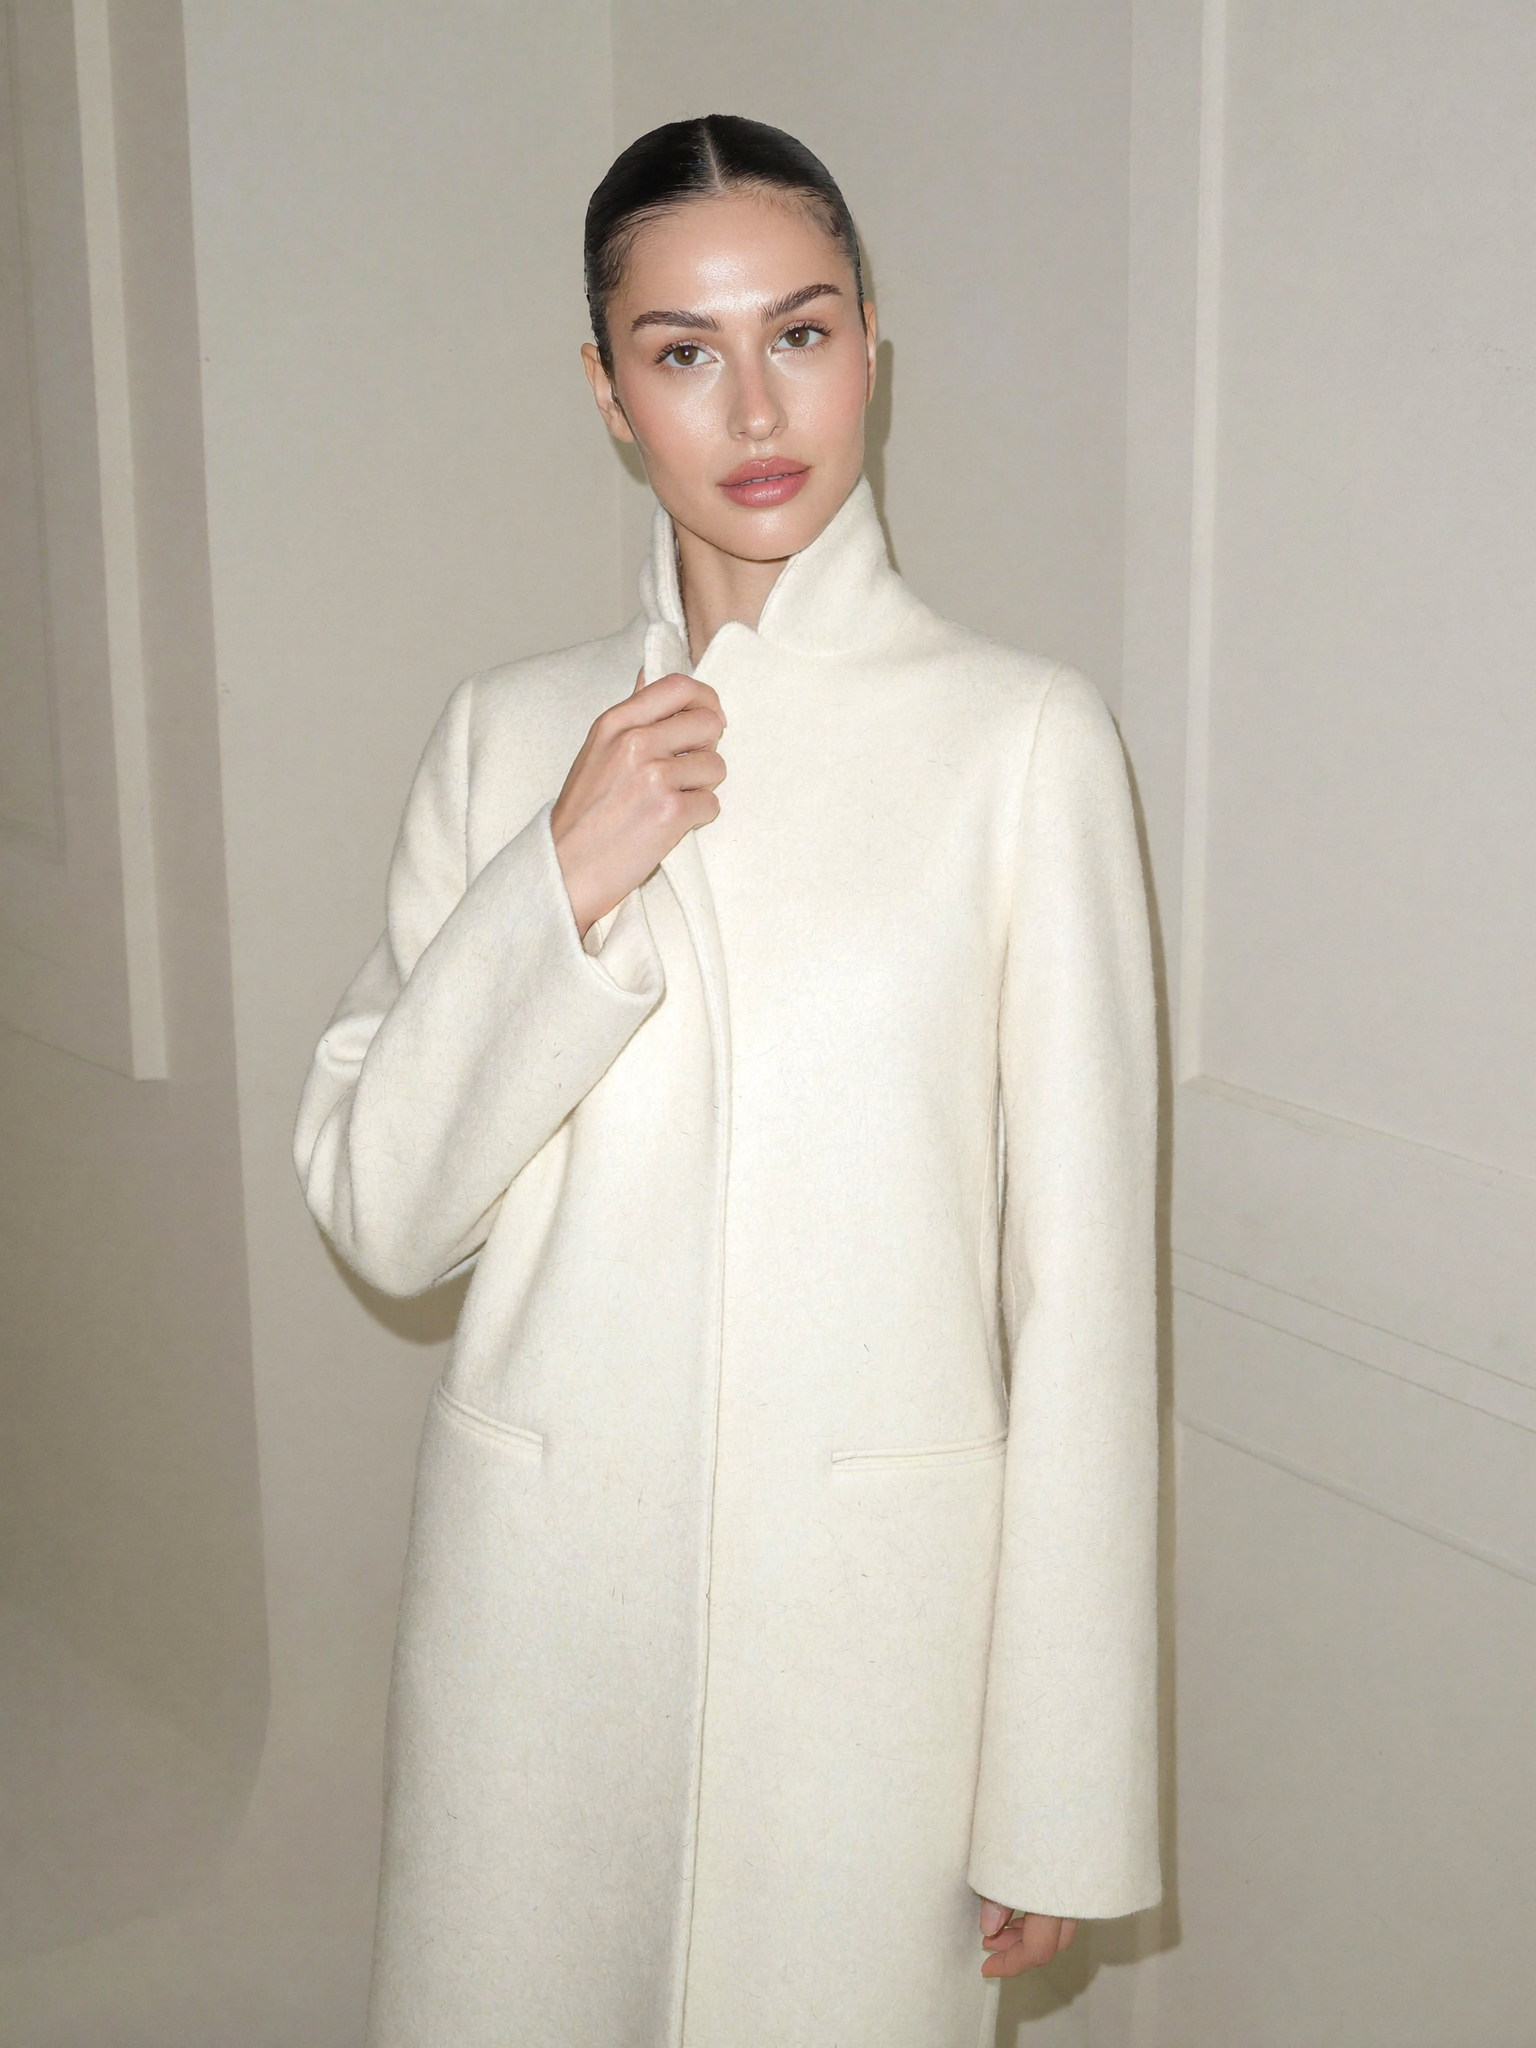
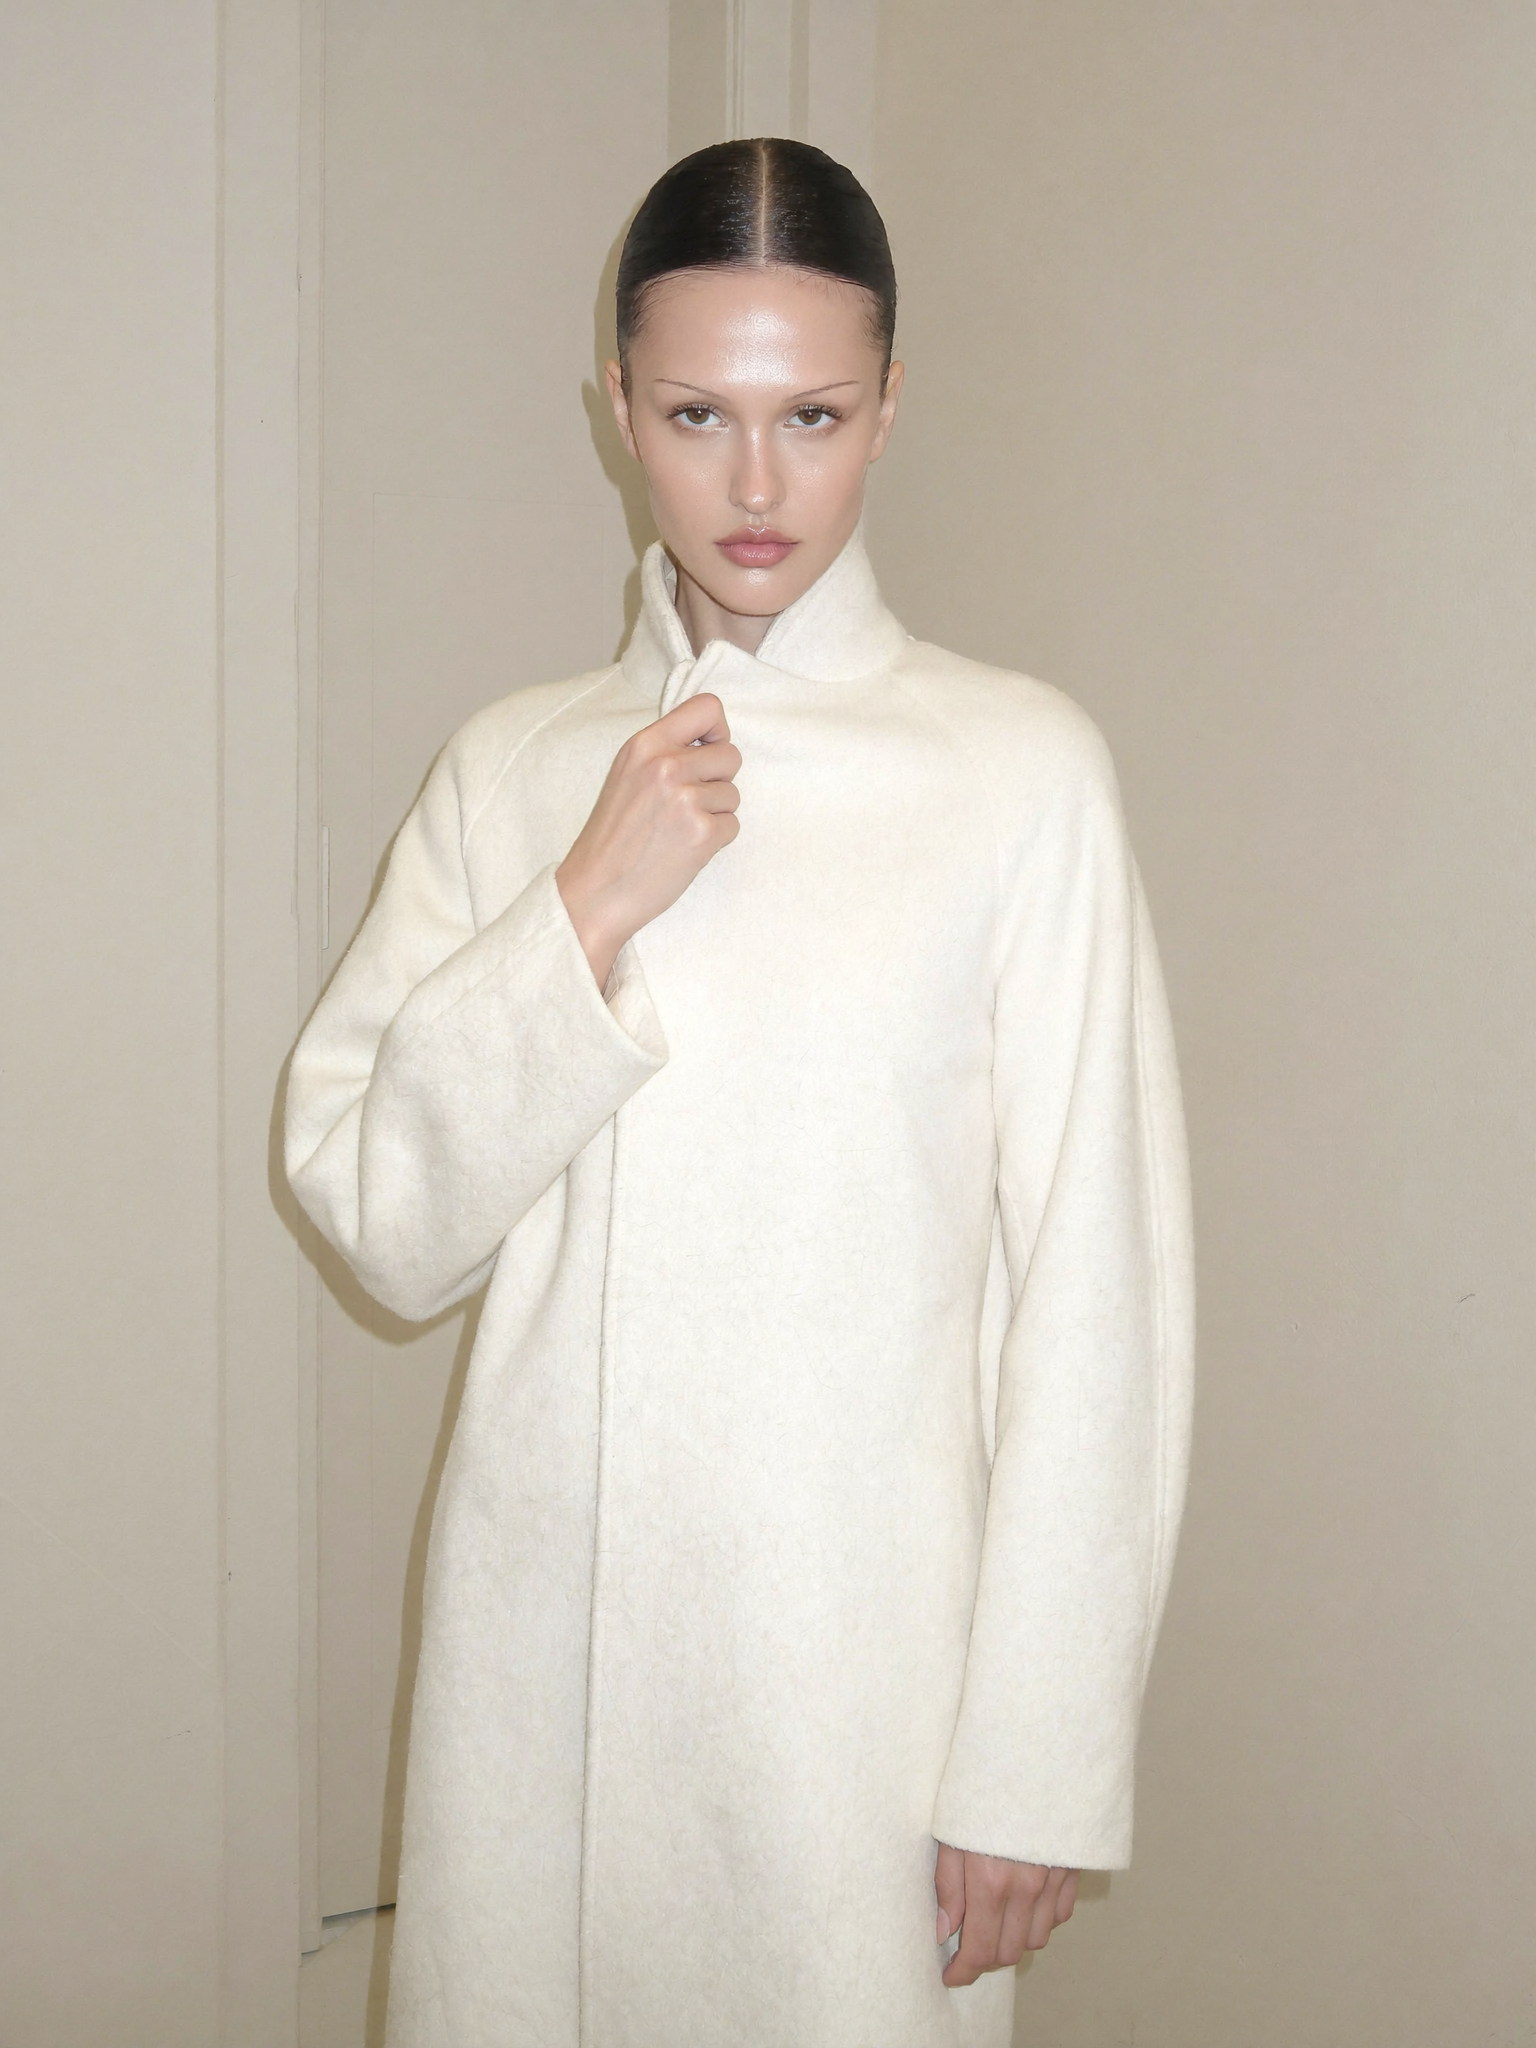
Serious expressions, brighter hero, Mara Beauty replaces Laneige
Reshoot hero, apparel card, Editorial casting portrait and the whole
Maison Verde campaign with a serious high-fashion expression. Swap the
Laneige concept for the Mara Beauty set.

diff --git a/index.html b/index.html
@@ -251,9 +251,9 @@ const CAMPAIGNS=[
   {slug:'atelier-nord', concept:true, client:'Atelier Nord', year:'2026', disc:'Knitwear',
    note:'One bright room of cream plaster and linen. Four looks, one face, oatmeal throughout.',
    shots:['cb_1.jpg','cb_2.jpg','cb_3.jpg','cb_4.jpg'], face:'02'},
-  {slug:'laneige', client:'Laneige', year:'2026', disc:'Beauty & skincare', concept:true,
-   note:'A monochrome study in rose — one face, one light, one colour from the wall to the knit.',
-   shots:['ln_1.jpg','ln_2.jpg','ln_3.jpg','ln_4.jpg'], face:'02'},
+  {slug:'mara', client:'Mara Beauty', year:'2026', disc:'Beauty & skincare', concept:true,
+   note:'One serum, one face, one dusty rose wall. Four frames shot against the same light.',
+   shots:['mr_1.jpg','mr_2.jpg','mr_3.jpg','mr_4.jpg'], face:'02'},
   {slug:'suisse-objet', concept:true, client:'Suisse Objet', year:'2025', disc:'Fine jewellery',
    note:'Gold on cream silk against a seamless warm ground, lit high and bright so the metal carries.',
    shots:['cc_1.jpg','cc_2.jpg','cc_3.jpg','cc_4.jpg'], face:'03'}
@@ -267,7 +267,7 @@ const FACES=[
    looks:[{s:IMG.hero,t:true},{s:'ca_1.jpg'},{s:'ca_3.jpg'},{s:'ca_4.jpg'},{s:IMG.apparel}]},
   {ref:'02', portrait:IMG.faceB, alt:'Casting reference 02',
    suited:'Knitwear · Editorial · Lifestyle',
-   looks:[{s:'cb_1.jpg'},{s:'cb_2.jpg'},{s:'cb_3.jpg'},{s:'cb_4.jpg'},{s:'ln_1.jpg'},{s:'ln_3.jpg'}]},
+   looks:[{s:'cb_1.jpg'},{s:'cb_2.jpg'},{s:'cb_3.jpg'},{s:'cb_4.jpg'},{s:'mr_1.jpg'},{s:'mr_3.jpg'}]},
   {ref:'03', portrait:IMG.faceC, alt:'Casting reference 03',
    suited:'Beauty · Skincare · Fine jewellery',
    looks:[{s:IMG.beauty},{s:'cc_1.jpg'},{s:'cc_3.jpg'},{s:'cc_4.jpg'}]}
